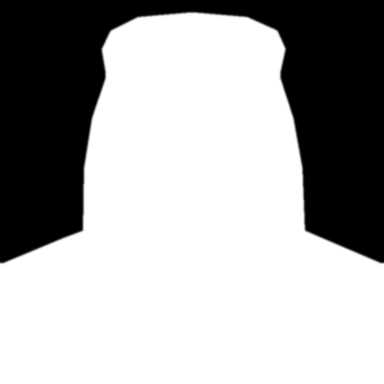
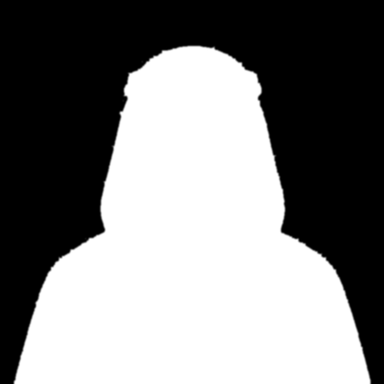
Call: new cartoon Najdi grandfather (Gemini portrait) with matching open-mouth, closed-eye, mask and wall frames; shader coordinates updated
Claude-Session: https://claude.ai/code/session_01Mn3hNyDFxYoprdyM6sm24u

Changed region(s): [[0.0, 0.0312, 1.0, 1.0]]

diff --git a/filesync-pro2/src/components/GrandpaCall.jsx b/filesync-pro2/src/components/GrandpaCall.jsx
@@ -3,7 +3,7 @@ import { Canvas, useFrame, useLoader } from '@react-three/fiber';
 import * as THREE from 'three';
 import { GRANDPA_FRAMES as FRAMES } from './grandpaFrames';
 
-// «الداهية» as a realistic 2D Najdi grandfather for the live call (replaces the salt bag).
+// «الداهية» as a 2D cartoon Najdi grandfather for the live call (portrait drawn with Gemini).
 // Three pixel-aligned paintings of the same portrait: mouth closed / mouth open / eyes closed.
 // The shader shows the base and blends in only the mouth area (with the voice level) and only
 // the eye area (for blinks), so the rest of the picture never ghosts.
@@ -35,26 +35,26 @@ const fragmentShader = `
 
   const float SIZE = 768.0;
   // Mouth + beard region that moves when he talks
-  const vec2 MOUTH_C = vec2(390.0, 429.0);
-  const vec2 MOUTH_R = vec2(113.2, 113.2);
+  const vec2 MOUTH_C = vec2(388.0, 392.0);
+  const vec2 MOUTH_R = vec2(105.0, 105.0);
   // Jaw: the upper lip stays, everything from the lower lip to the beard's tip drops by JAW_DROP
   // px between the closed and the open painting (measured on the two images)
-  const float UPPER_LIP_Y = 372.0;
-  const float LOWER_LIP_Y = 408.0;
-  const float BEARD_END_Y = 485.0;
-  const float NECK_Y = 515.0;
-  const float JAW_DROP = 28.0;
-  const float JAW_HALF_W = 92.0;
+  const float UPPER_LIP_Y = 377.0;
+  const float LOWER_LIP_Y = 398.0;
+  const float BEARD_END_Y = 478.0;
+  const float NECK_Y = 505.0;
+  const float JAW_DROP = 22.0;
+  const float JAW_HALF_W = 88.0;
   // Eyes
-  const vec2 EYE_L = vec2(325.5, 247.5);
-  const vec2 EYE_R = vec2(450.8, 248.2);
-  const vec2 EYE_RAD = vec2(42.0, 27.0);
+  const vec2 EYE_L = vec2(339.0, 277.0);
+  const vec2 EYE_R = vec2(433.0, 277.0);
+  const vec2 EYE_RAD = vec2(32.0, 19.0);
 
-  const vec2 NECK = vec2(384.0, 520.0);   // the head turns around this point
-  const vec2 HEAD_C = vec2(384.0, 250.0);
+  const vec2 NECK = vec2(386.0, 505.0);   // the head turns around this point
+  const vec2 HEAD_C = vec2(386.0, 280.0);
   const vec2 HEAD_R = vec2(250.0, 300.0);
-  const vec2 BROW_C = vec2(384.0, 212.0);
-  const vec2 BROW_R = vec2(150.0, 42.0);
+  const vec2 BROW_C = vec2(386.0, 250.0);
+  const vec2 BROW_R = vec2(110.0, 30.0);
 
   float ell(vec2 px, vec2 c, vec2 r) {
     float d = length((px - c) / r);
@@ -271,7 +271,7 @@ export default function GrandpaCall({
         overflow: 'hidden',
         position: 'relative',
         // Shown while the paintings load
-        background: 'url(/images/shayeb/base.jpg) center 2% / 113% no-repeat, #8a4a32',
+        background: 'url(/images/shayeb/base.jpg) center 2% / 113% no-repeat, #d9b483',
         boxShadow: '0 25px 60px rgba(0,0,0,0.55)',
         ...style,
       }}
